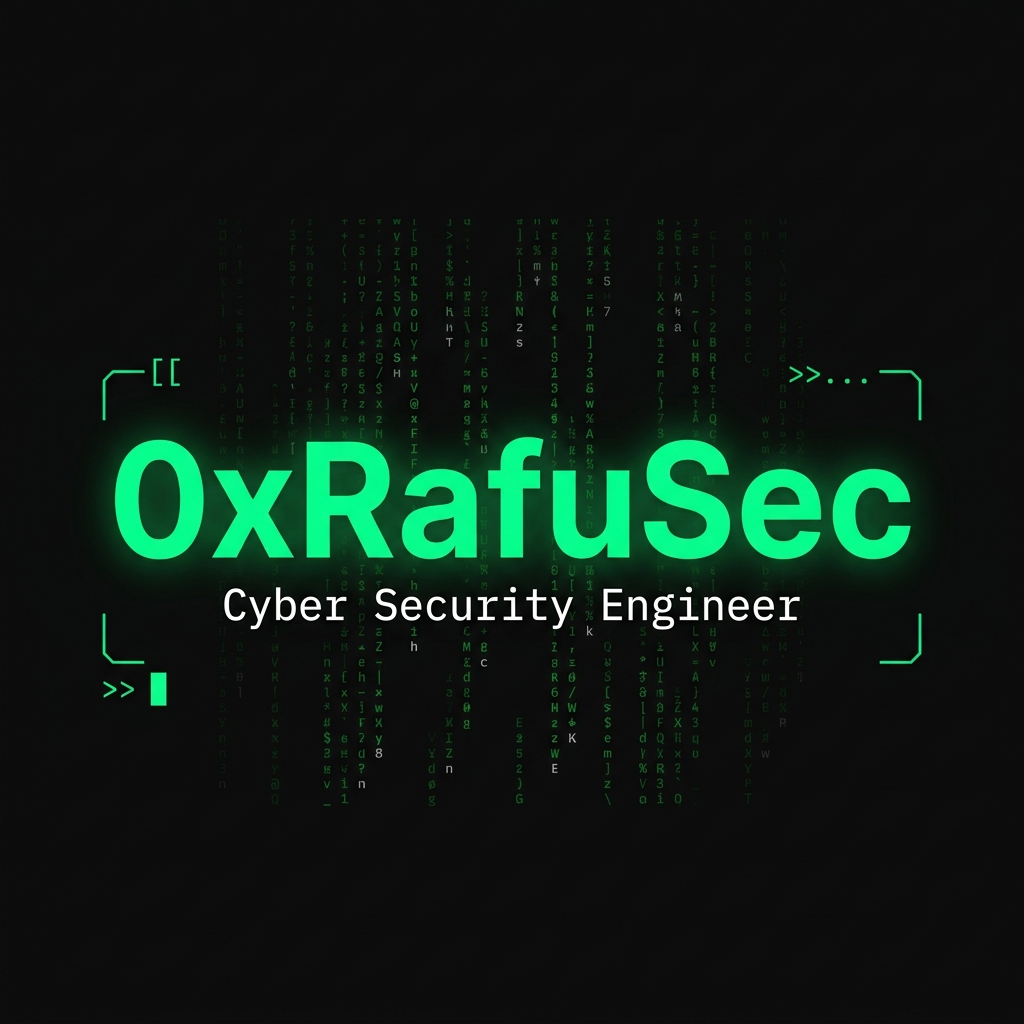
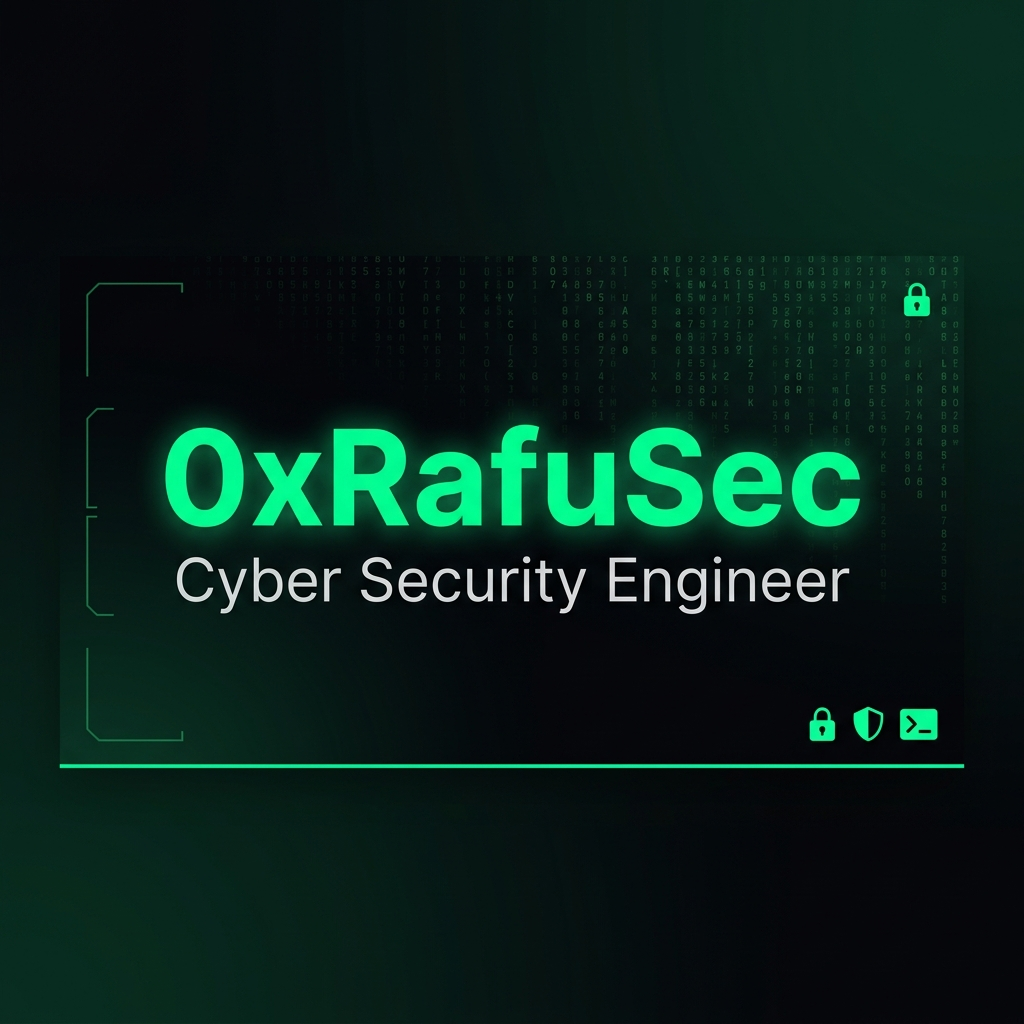
feat: implement root layout with metadata, analytics, and OpenGraph social assets support

diff --git a/app/layout.tsx b/app/layout.tsx
@@ -70,34 +70,26 @@ export const metadata: Metadata = {
     description: 'Cyber Security Engineer specializing in SOC operations, SIEM engineering, threat detection, and incident response.',
     images: [
       {
+        url: '/og-preview.gif',
+        width: 800,
+        height: 420,
+        alt: '0xRafuSec Portfolio - Animated Preview',
+        type: 'image/gif',
+      },
+      {
         url: '/og-image.png',
         width: 1200,
         height: 630,
         alt: '0xRafuSec Portfolio',
       },
     ],
-    videos: [
-      {
-        url: 'https://rafucybersec.vercel.app/videos/RafayWebsite.mp4',
-        secureUrl: 'https://rafucybersec.vercel.app/videos/RafayWebsite.mp4',
-        type: 'video/mp4',
-        width: 1280,
-        height: 720,
-      },
-    ],
   },
   twitter: {
-    card: 'player',
+    card: 'summary_large_image',
     title: '0xRafuSec | Cyber Security Engineer',
     description: 'Cyber Security Engineer specializing in SOC operations, SIEM engineering, and threat detection.',
     creator: '@rafucybersec',
-    images: ['/og-image.png'],
-    players: {
-      playerUrl: 'https://rafucybersec.vercel.app/api/video-player',
-      streamUrl: 'https://rafucybersec.vercel.app/videos/RafayWebsite.mp4',
-      width: 1280,
-      height: 720,
-    },
+    images: ['/og-preview.gif'],
   },
   robots: {
     index: true,
@@ -139,12 +131,6 @@ export default function RootLayout({
           type="font/woff2"
           crossOrigin="anonymous"
         />
-        {/* Twitter Player Card meta tags */}
-        <meta name="twitter:player" content="https://rafucybersec.vercel.app/api/video-player" />
-        <meta name="twitter:player:width" content="1280" />
-        <meta name="twitter:player:height" content="720" />
-        <meta name="twitter:player:stream" content="https://rafucybersec.vercel.app/videos/RafayWebsite.mp4" />
-        <meta name="twitter:player:stream:content_type" content="video/mp4" />
       </head>
       <body className="font-sans" suppressHydrationWarning>
         <Providers>